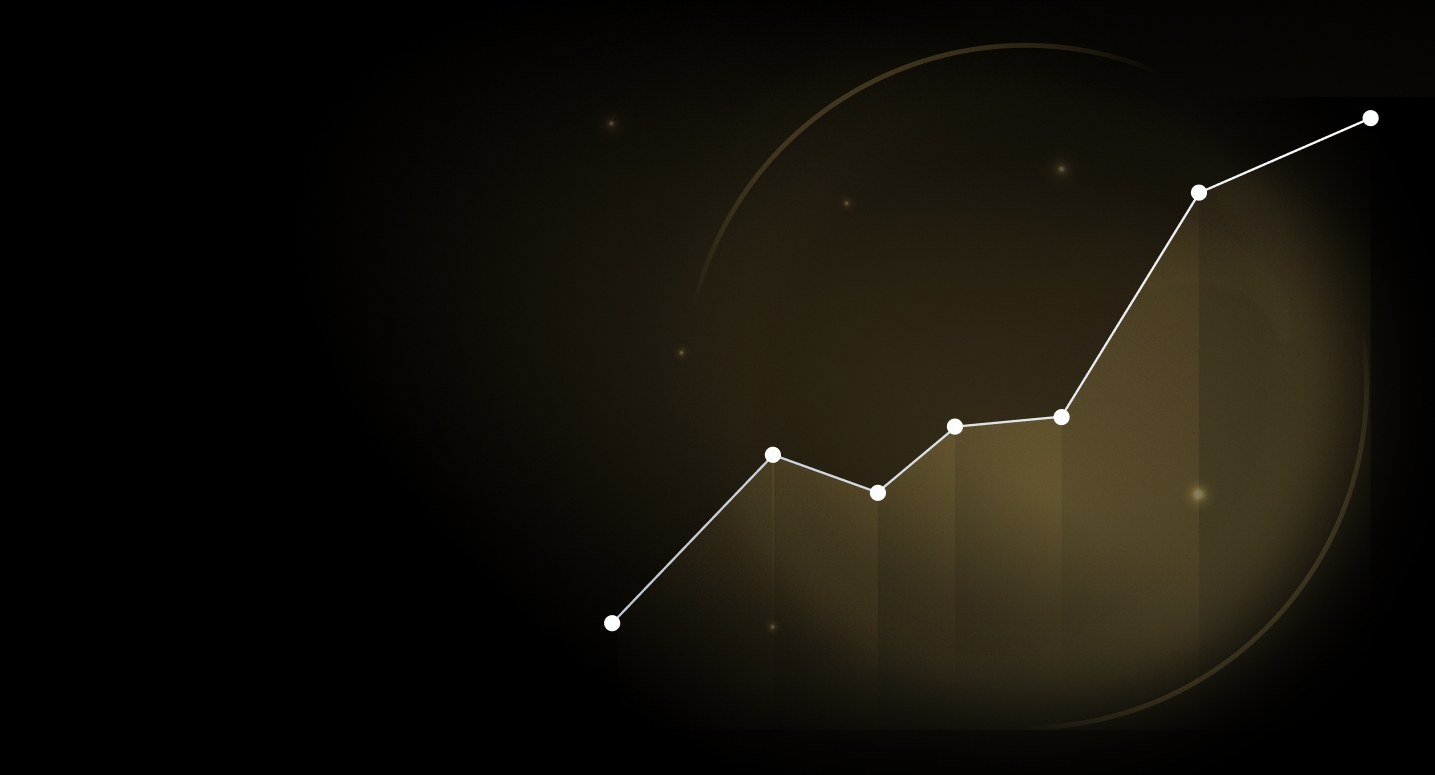
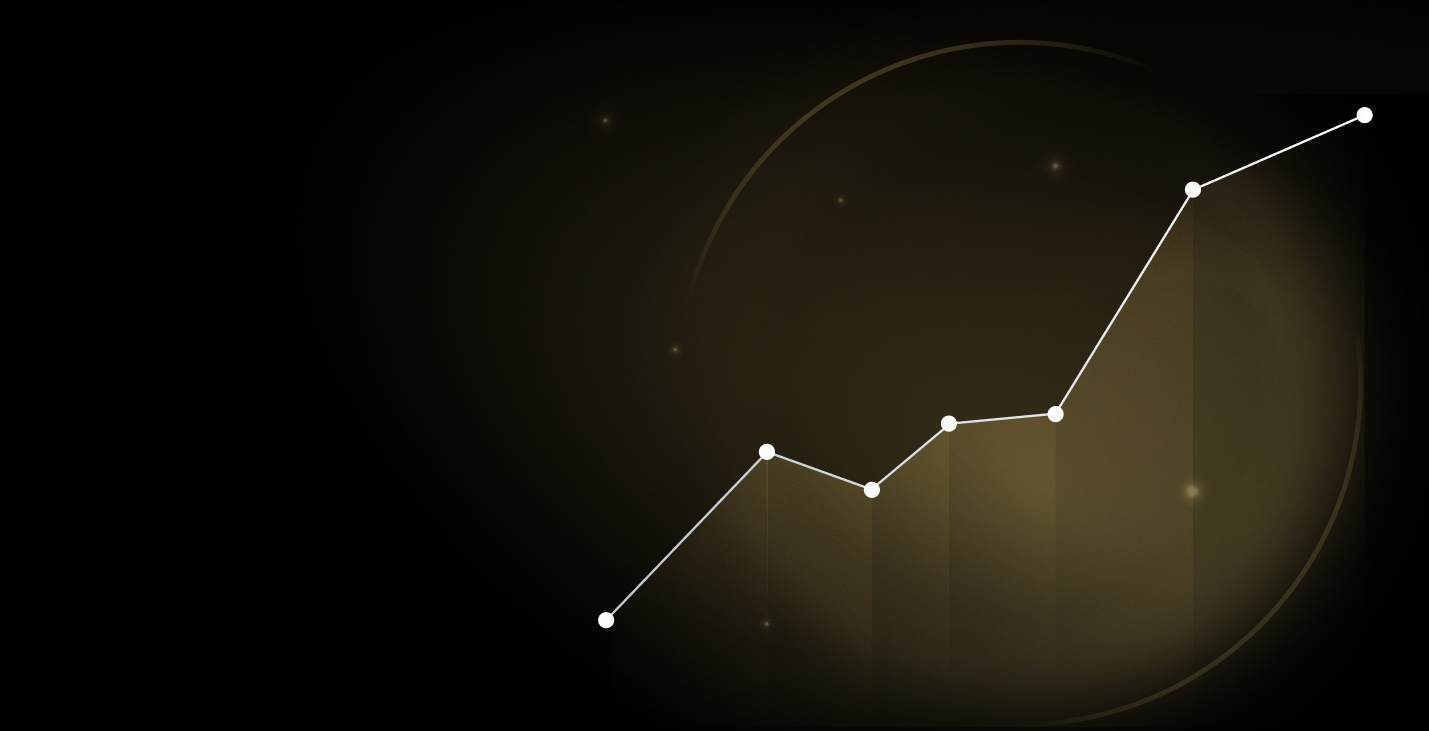
fix img size

diff --git a/src/components/elements/lazy-image/LazyImage.tsx b/src/components/elements/lazy-image/LazyImage.tsx
@@ -26,7 +26,7 @@ const LazyImage: FC<ILazyImage> = ({
   objectFit = 'cover',
   layout = 'intrinsic',
   loading = 'lazy',
-  quality = 100,
+  quality = 85,
   placeholder = 'blur',
   className,
   style,
